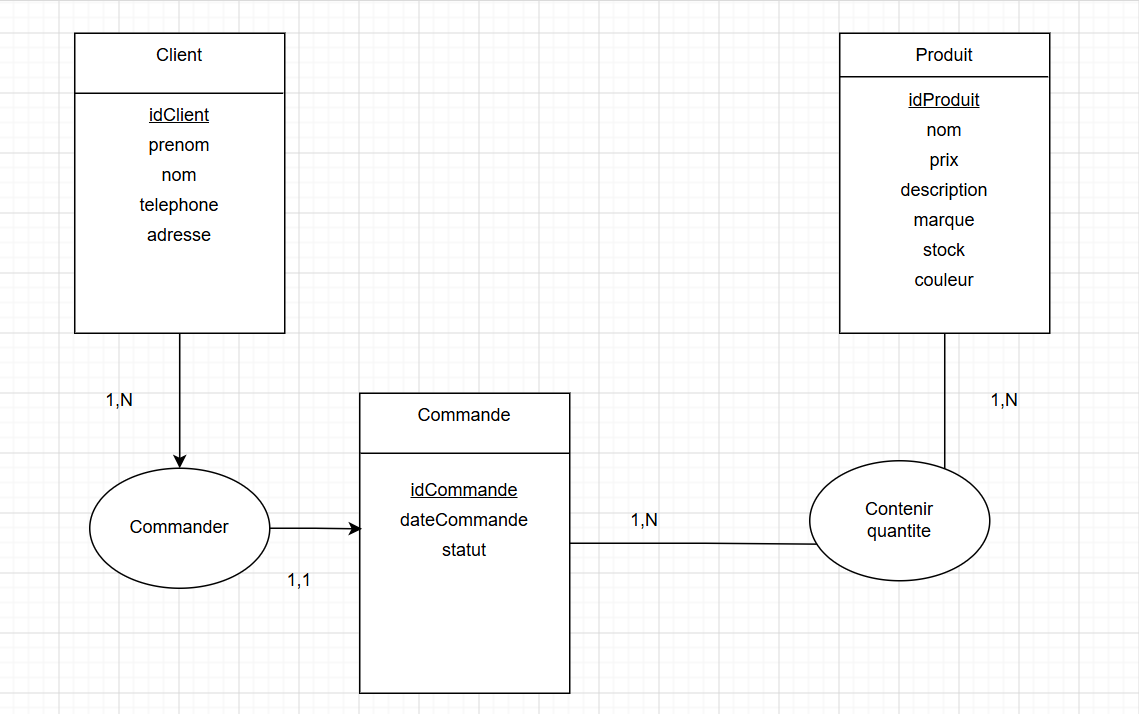
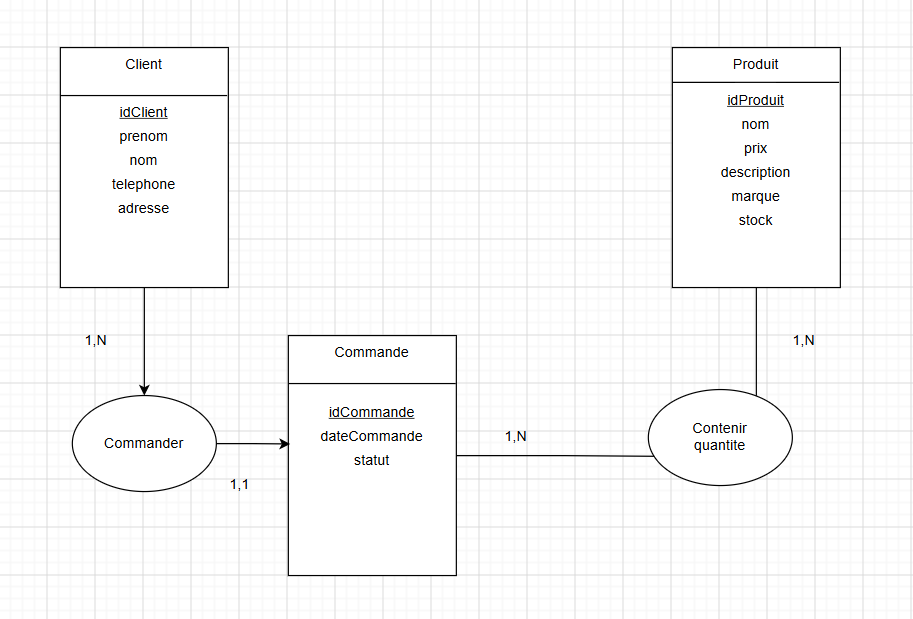
Modifier DataBase

diff --git a/Phones/index.html b/Phones/index.html
@@ -7,13 +7,27 @@
 </head>
 <body>
     <header>
-
+        <p>LOGO</p>
+        <nav>
+            <a href="">Accueil</a>
+            <a href="">Téléphones</a>
+            <a href="">Accessoires</a>
+            <a href=""><img src="asset/shopping-cart.png" alt="Panier" width="18"></a>
+            <a href="">Profil</a>
+        </nav>
+        <div>
+            <img src="asset/Phones.jpg" alt="Phones">
+            <h6>Trouver le Smartphones Parfait!</h6>
+            <p>Les millieurs modeles aux millieurs prix!</p>
+            <button>Promotions</button>
+            <button>Nouveautés</button>
+        </div>
     </header>
     <main>
 
     </main>
     <footer>
-        
+
     </footer>
 </body>
 </html>
